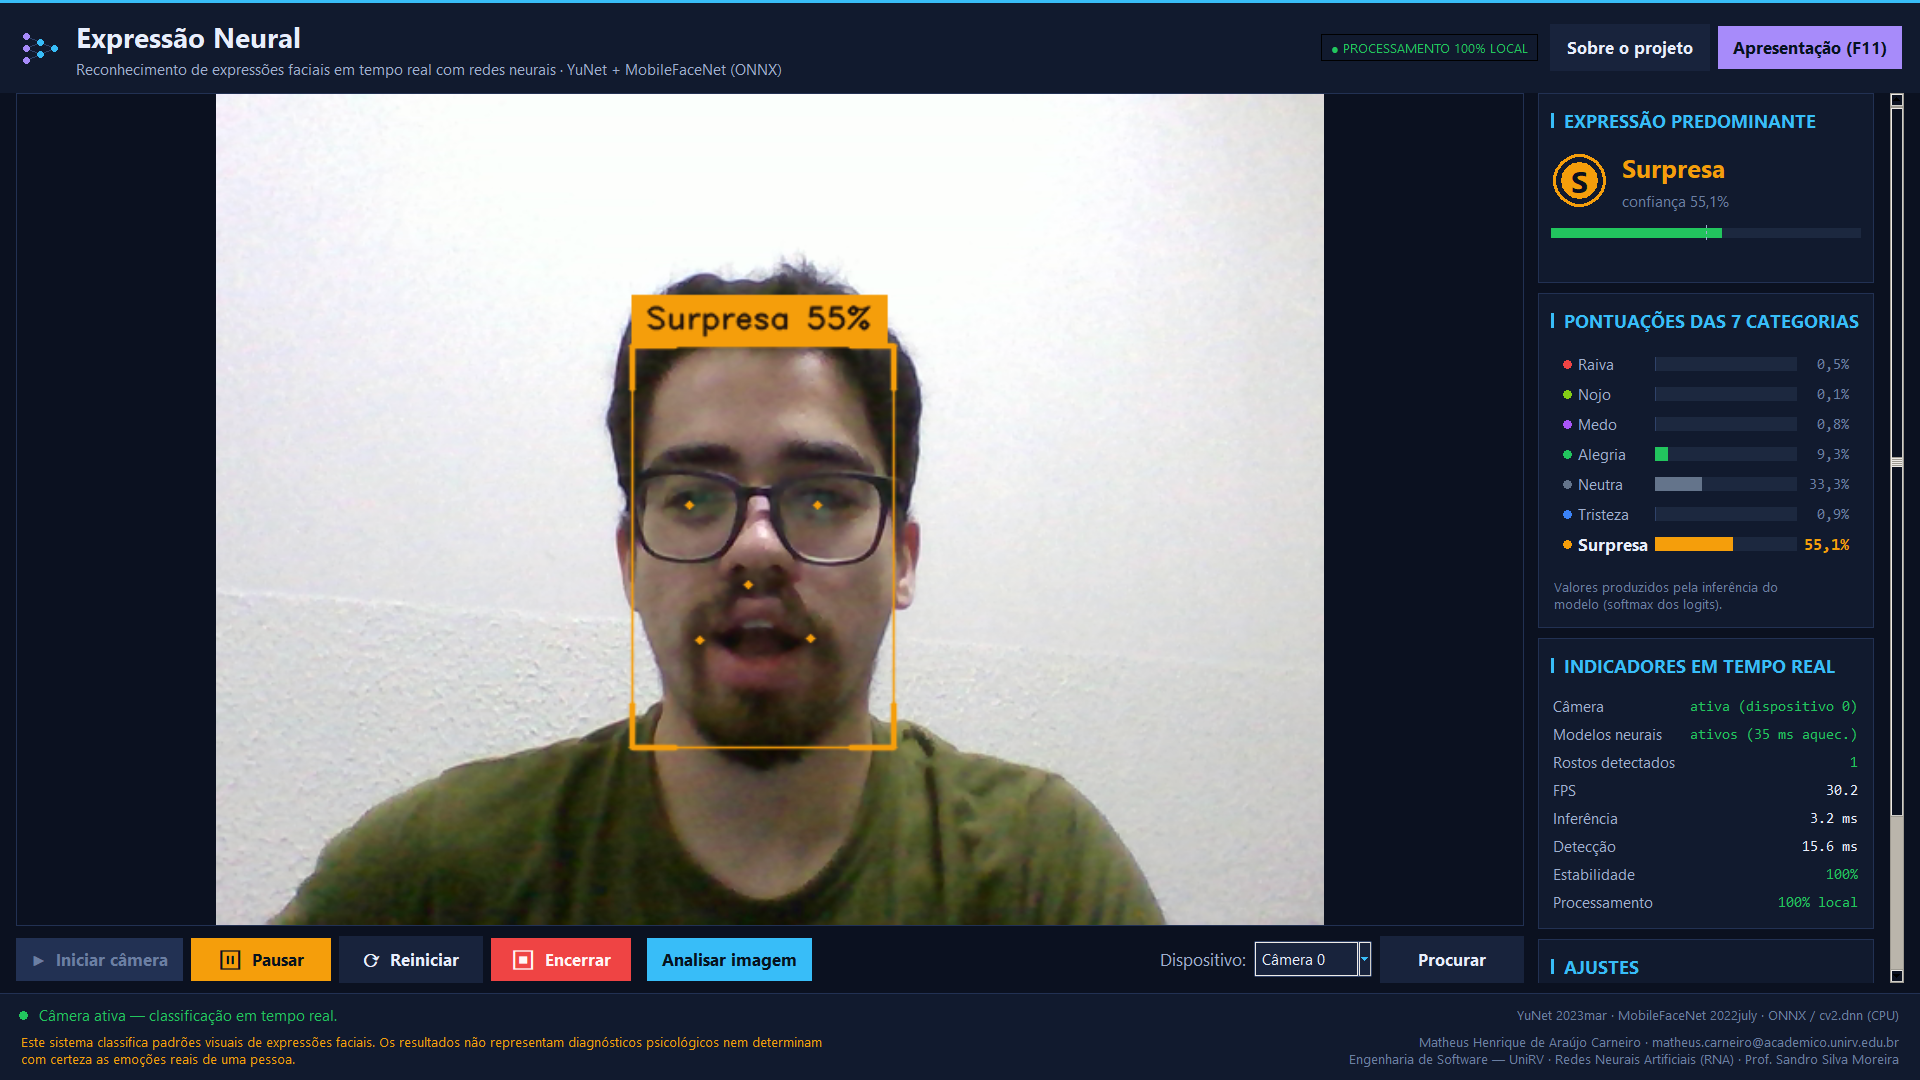
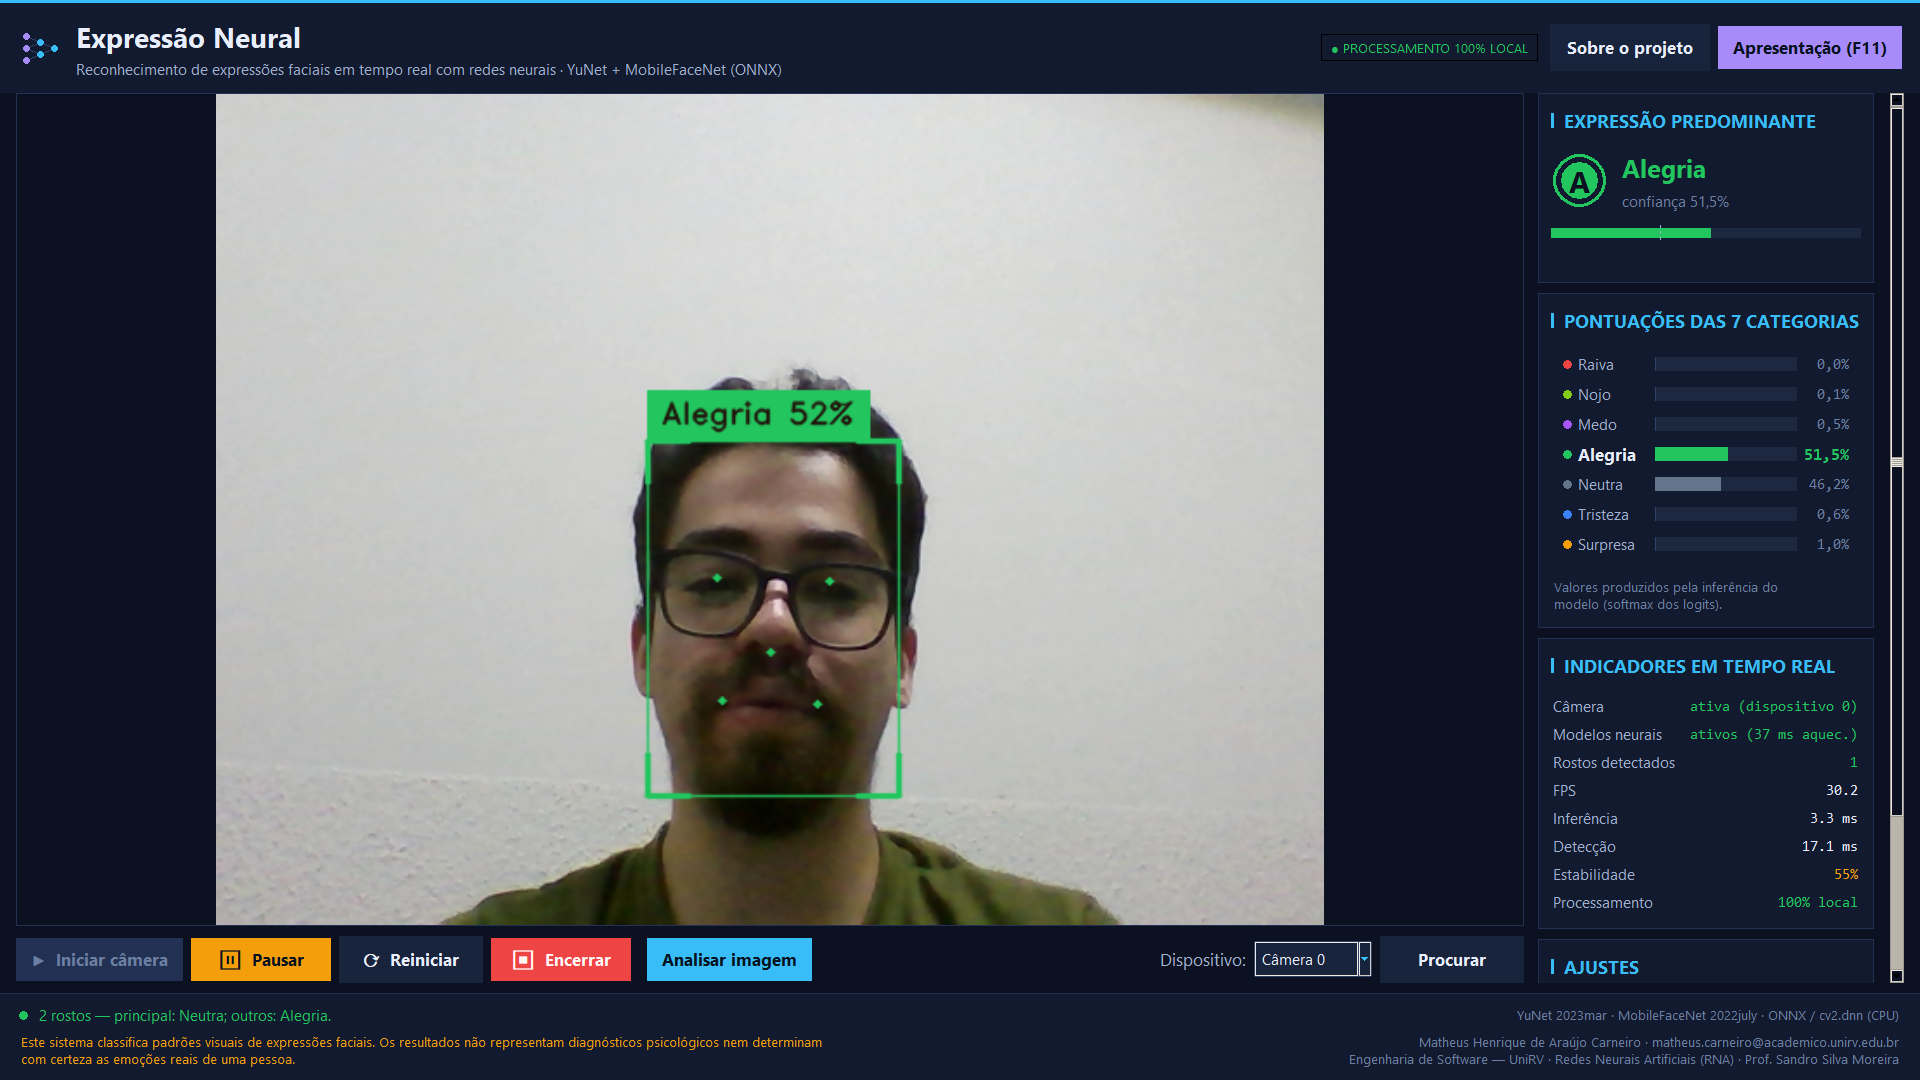
fix(ui): rodape deixava de acompanhar o quadro atual
Uma deteccao falsa momentanea de 2 rostos congelava o texto '2 rostos -
principal: X; outros: Y' no rodape, que passava a contradizer o painel
lateral (visivel numa das capturas do banner: rodape dizia 2 rostos enquanto
o painel mostrava 1 rosto com Alegria 100%).

O status so era escrito quando havia mais de um rosto e nunca voltava atras.
Agora _status_da_captura reflete o quadro atual (0, 1 ou N rostos), sem
sobrescrever mensagens de erro nem o modo de imagem estatica.

2 testes de regressao.

diff --git a/tests/test_robustez.py b/tests/test_robustez.py
@@ -288,3 +288,74 @@ def test_analisar_imagem_encerra_captura_mesmo_em_modo_erro(
         assert janela._modo == "imagem"
     finally:
         janela.encerrar()
+
+
+# ================== rodape nao pode contradizer o painel lateral
+@modelos_disponiveis
+def test_status_volta_ao_normal_depois_de_multiplos_rostos(
+    imagem_rosto, imagem_multiplos_rostos
+) -> None:
+    """Regressão: uma detecção falsa de 2 rostos congelava o rodapé.
+
+    O texto "2 rostos — principal: Neutra; outros: Alegria" permanecia visível
+    mesmo quando o quadro seguinte tinha 1 rosto classificado de outra forma,
+    contradizendo o painel lateral na captura do banner.
+    """
+    tk = pytest.importorskip("tkinter")
+    from expressao_neural.core.pipeline import PipelineExpressao
+    from expressao_neural.ui.janela import JanelaPrincipal
+
+    try:
+        janela = JanelaPrincipal()
+    except tk.TclError:  # pragma: no cover
+        pytest.skip("ambiente sem interface gráfica disponível")
+
+    try:
+        p = PipelineExpressao(Ajustes(multiplos_rostos=True, max_rostos=5))
+        janela._modo = "ativo"  # simula câmera ligada, sem abrir dispositivo
+
+        multi = p.processar(imagem_multiplos_rostos, suavizar=False)
+        if multi.quantidade_rostos < 2:
+            pytest.skip("fixture não produziu dois rostos")
+        janela._atualizar_paineis(multi)
+        janela.update_idletasks()
+        assert "rostos" in janela._mensagem_status
+
+        # Quadro seguinte com UM rosto: o rodapé precisa acompanhar.
+        p.reiniciar_estado()
+        um = p.processar(imagem_rosto, suavizar=False)
+        assert um.quantidade_rostos == 1
+        janela._atualizar_paineis(um)
+        janela.update_idletasks()
+        assert "2 rostos" not in janela._mensagem_status
+        assert "classificação em tempo real" in janela._mensagem_status
+
+        # E sem nenhum rosto, idem.
+        from expressao_neural.core.pipeline import ResultadoQuadro
+
+        janela._atualizar_paineis(ResultadoQuadro())
+        janela.update_idletasks()
+        assert "nenhum rosto" in janela._mensagem_status.lower()
+        p.liberar()
+    finally:
+        janela.encerrar()
+
+
+def test_status_de_captura_nao_sobrescreve_modo_imagem() -> None:
+    """Em análise de imagem estática o rodapé tem mensagem própria."""
+    tk = pytest.importorskip("tkinter")
+    from expressao_neural.core.pipeline import ResultadoQuadro
+    from expressao_neural.ui.janela import JanelaPrincipal
+    from expressao_neural.ui import tema
+
+    try:
+        janela = JanelaPrincipal()
+    except tk.TclError:  # pragma: no cover
+        pytest.skip("ambiente sem interface gráfica disponível")
+    try:
+        janela._modo = "imagem"
+        janela._definir_status("foto.jpg: 1 rosto classificado.", tema.SUCESSO)
+        janela._status_da_captura(ResultadoQuadro())
+        assert janela._mensagem_status == "foto.jpg: 1 rosto classificado."
+    finally:
+        janela.encerrar()

diff --git a/src/expressao_neural/ui/janela.py b/src/expressao_neural/ui/janela.py
@@ -807,6 +807,7 @@ class JanelaPrincipal(tk.Tk):
         alvo = resultado.principal
         if alvo is None:
             self._limpar_resultados(manter_contadores=True)
+            self._status_da_captura(resultado)
             return
 
         indice = alvo.indice
@@ -829,15 +830,48 @@ class JanelaPrincipal(tk.Tk):
             f"{alvo.estabilidade * 100:.0f}%" if self.ajustes.suavizacao_ativa else "desligada",
             tema.SUCESSO if alvo.estabilidade > 0.7 else tema.ALERTA,
         )
-        if resultado.quantidade_rostos > 1:
-            extras = ", ".join(
-                f"{r.rotulo_exibicao(limiar)}" for r in resultado.rostos[1:4]
-            )
+        self._status_da_captura(resultado)
+
+    def _status_da_captura(self, resultado: ResultadoQuadro) -> None:
+        """Mantém o rodapé coerente com o quadro ATUAL.
+
+        Antes, o status só era escrito quando havia mais de um rosto e nunca
+        voltava atrás: uma detecção falsa momentânea de 2 rostos deixava o
+        rodapé congelado contradizendo o painel lateral.
+        """
+        if self._modo not in ("ativo", "pausado"):
+            return  # imagem estática e erros têm mensagens próprias
+        t = self._trabalhador
+        if t is not None and t.erro:
+            return  # a mensagem de erro tem prioridade
+        if t is not None and t.pausado:
             self._definir_status(
-                f"{resultado.quantidade_rostos} rostos — principal: "
-                f"{alvo.rotulo_exibicao(limiar)}; outros: {extras}.",
-                tema.SUCESSO,
+                "Captura pausada — a câmera continua reservada.", tema.ALERTA
             )
+            return
+
+        limiar = self.ajustes.limiar_confianca
+        quantidade = resultado.quantidade_rostos
+        if quantidade == 0:
+            self._definir_status(
+                "Câmera ativa — nenhum rosto no enquadramento.", tema.TEXTO_SECUNDARIO
+            )
+            return
+        if quantidade == 1:
+            self._definir_status(
+                "Câmera ativa — classificação em tempo real.", tema.SUCESSO
+            )
+            return
+
+        alvo = resultado.principal
+        extras = ", ".join(r.rotulo_exibicao(limiar) for r in resultado.rostos[1:4])
+        if quantidade > 4:
+            extras += ", …"
+        self._definir_status(
+            f"{quantidade} rostos — principal: {alvo.rotulo_exibicao(limiar)}; "
+            f"outros: {extras}.",
+            tema.SUCESSO,
+        )
 
     def _limpar_resultados(self, manter_contadores: bool = False) -> None:
         """RF10: ao perder o rosto, nenhum resultado antigo permanece na tela."""
